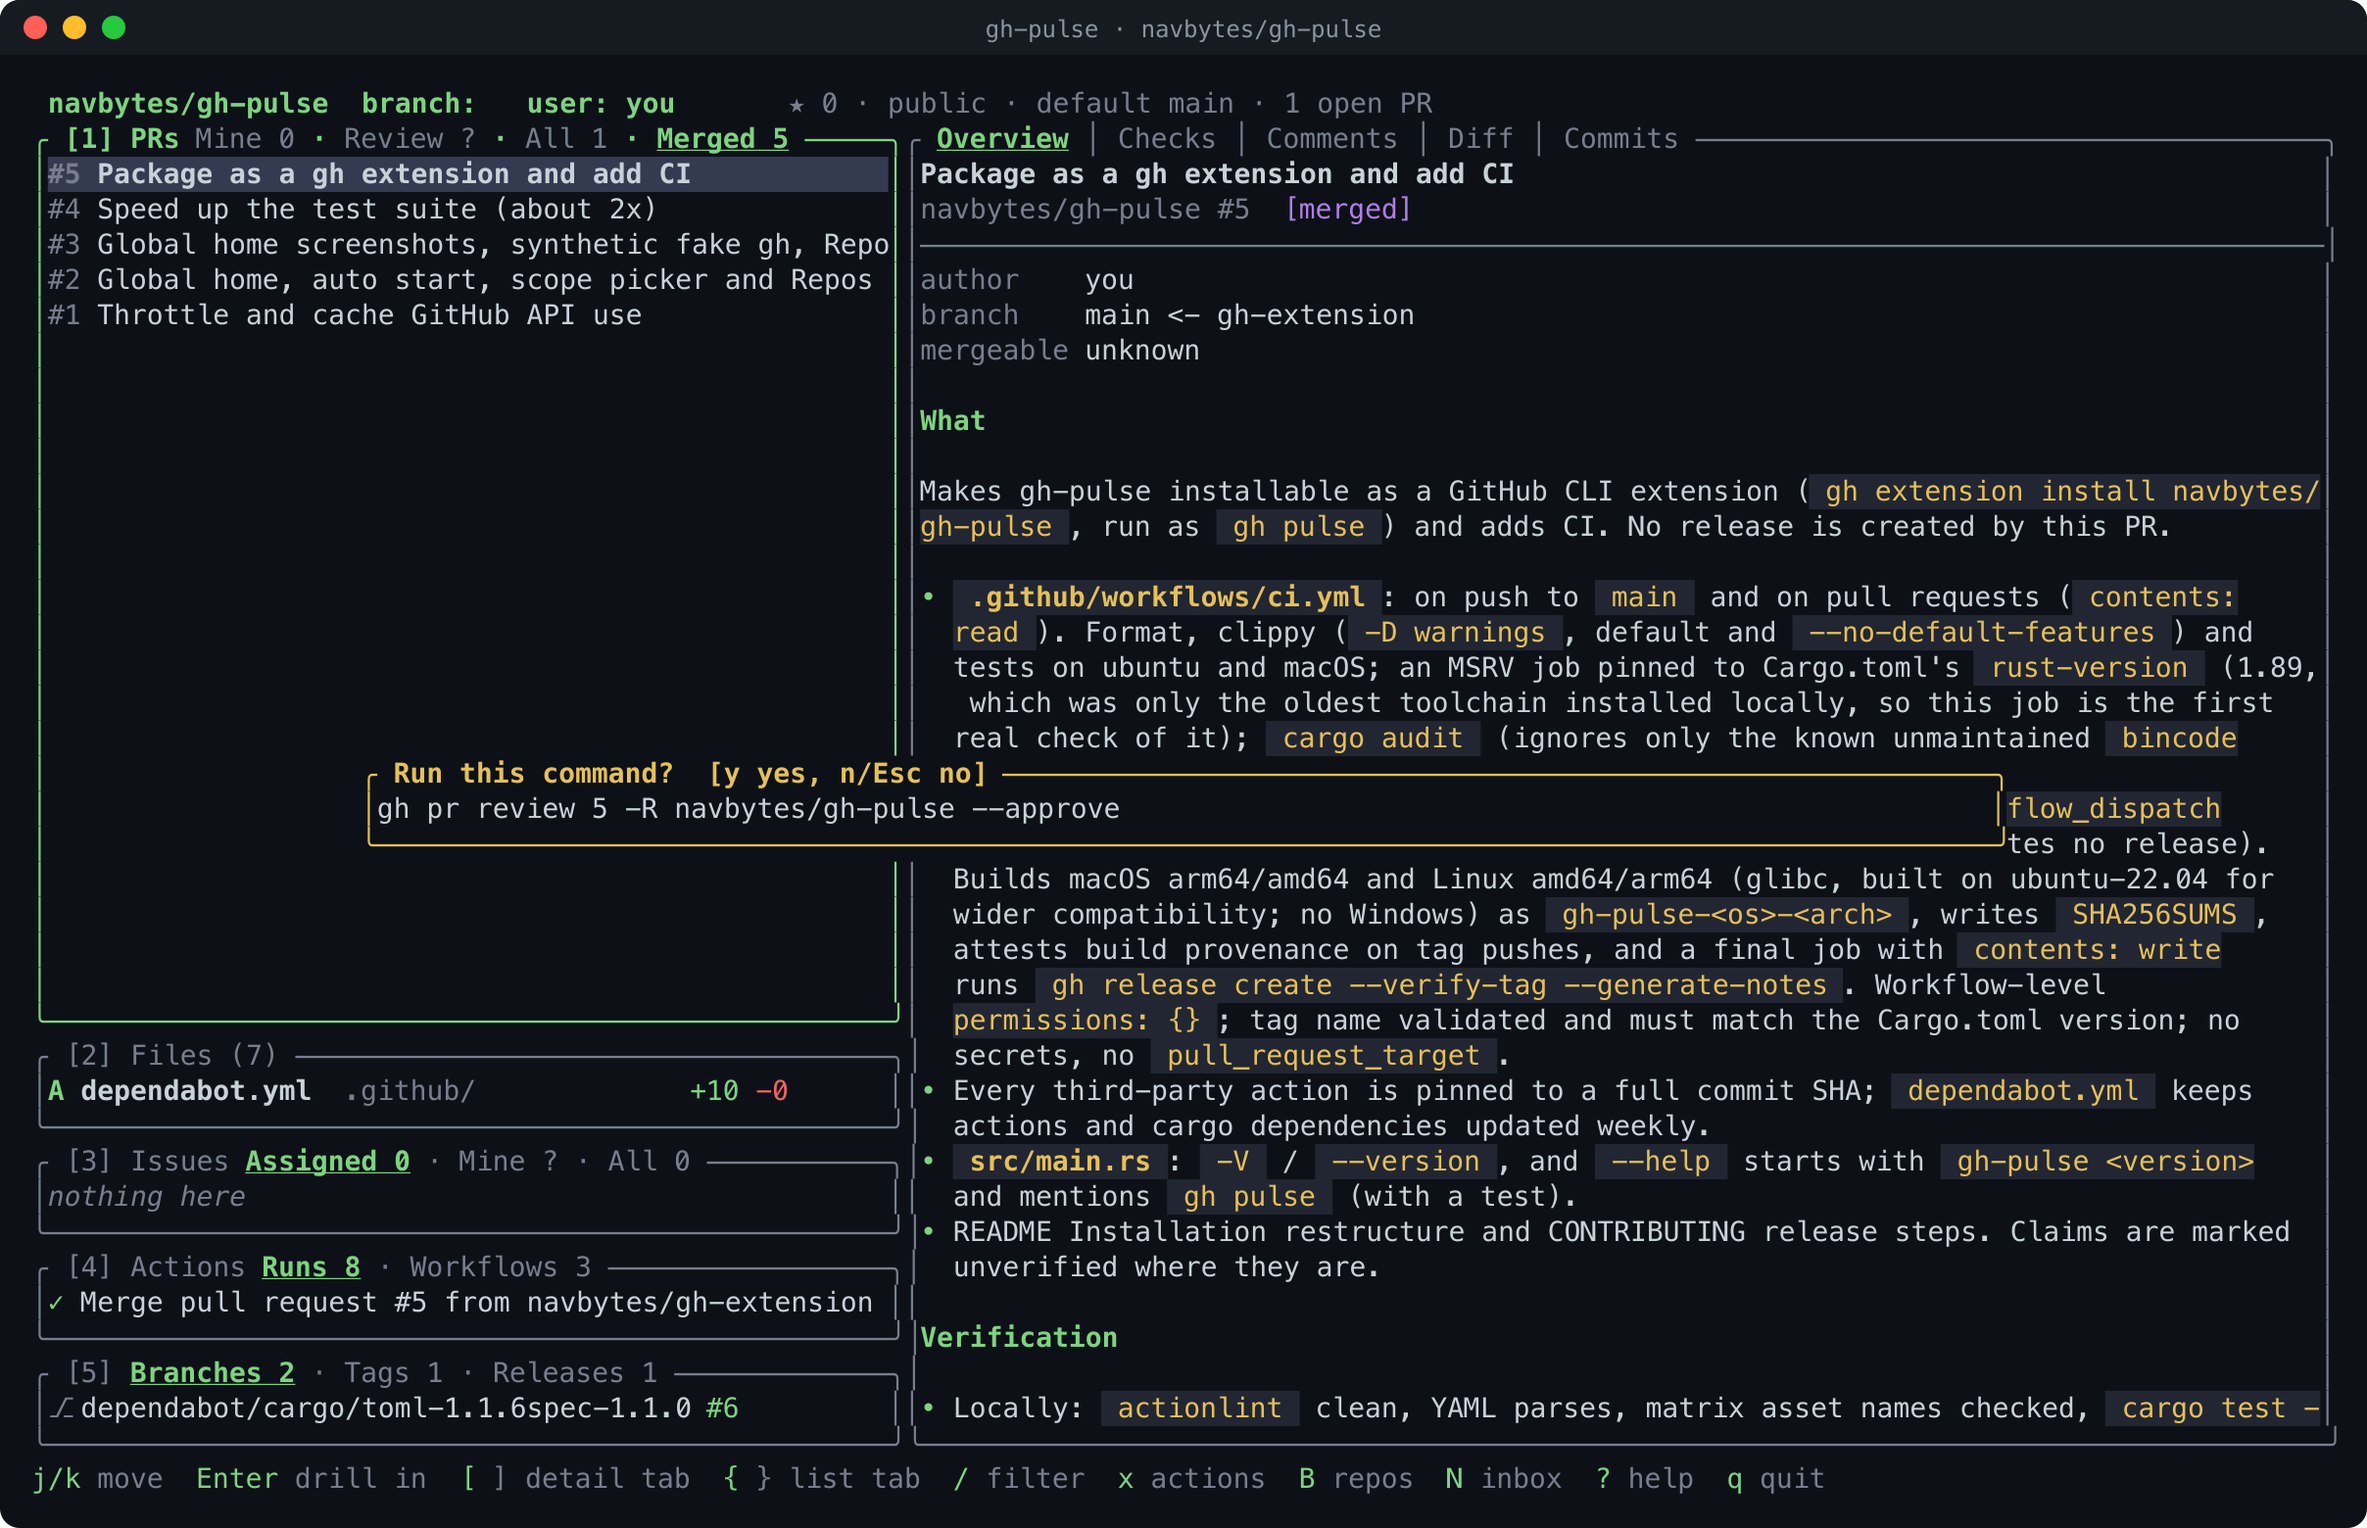
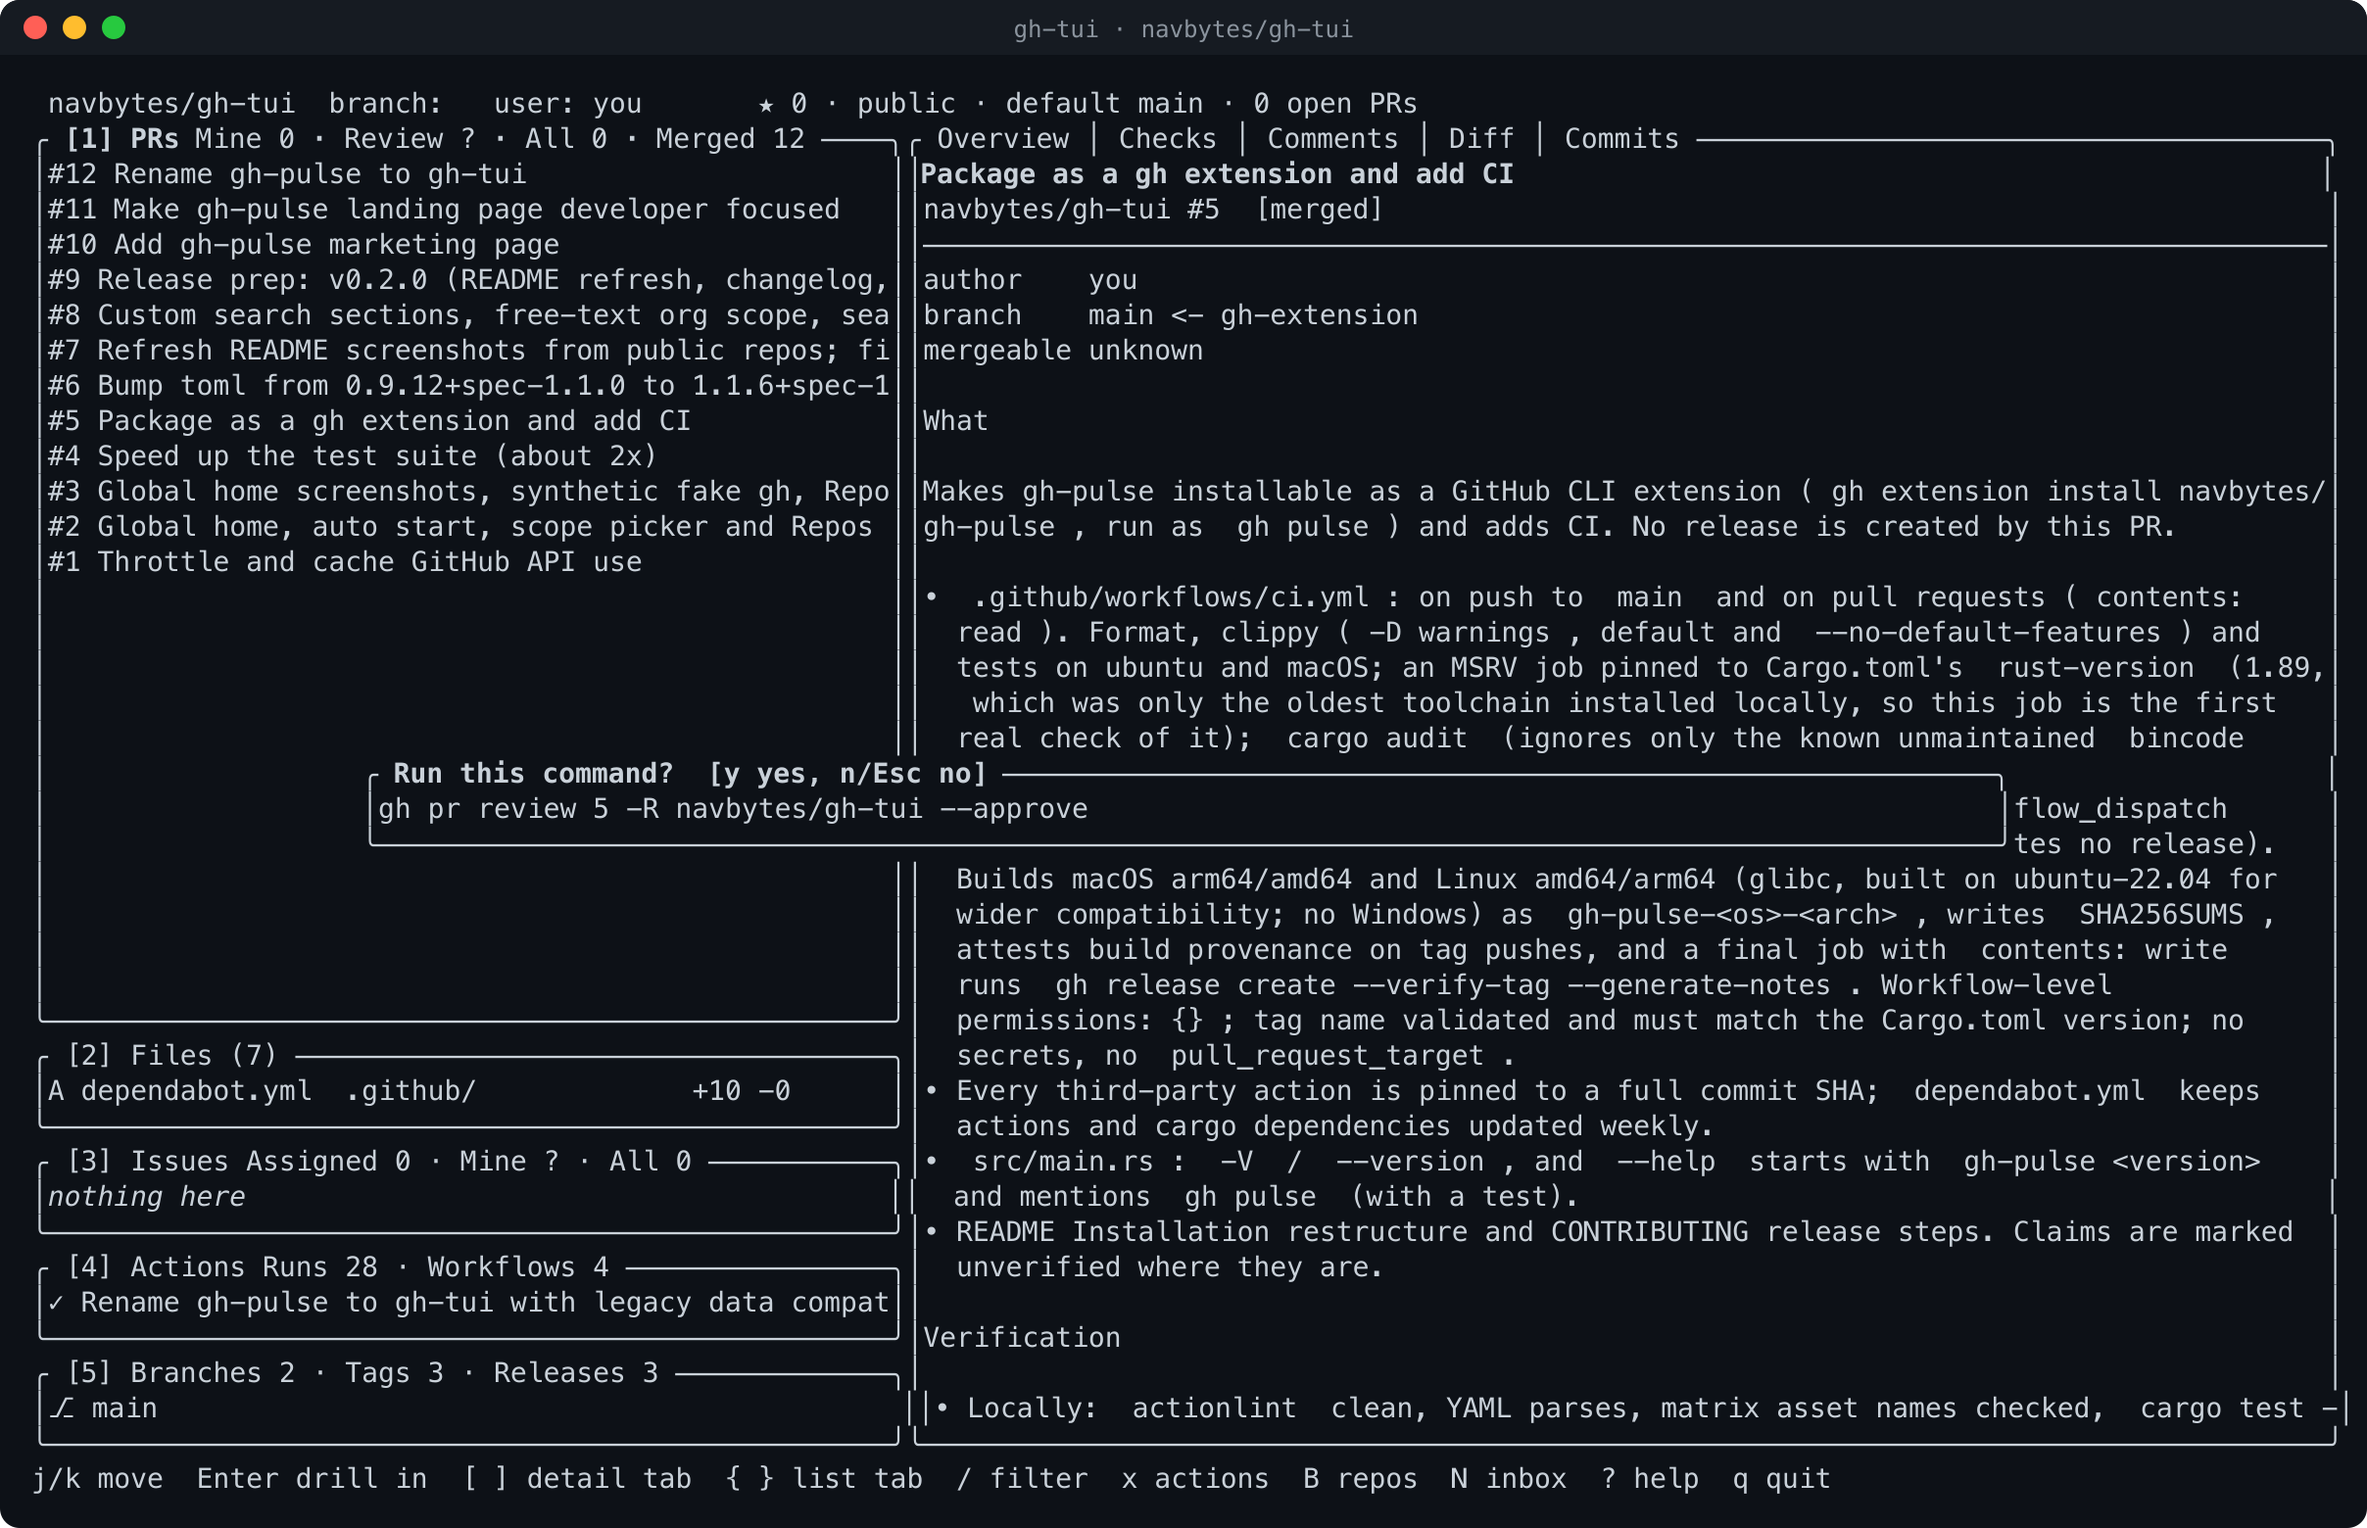
Refresh gh-tui screenshots and finish legacy-name audit

diff --git a/docs/index.html b/docs/index.html
@@ -69,7 +69,7 @@
       <div class="product-grid">
         <article class="product-card product-card-large"><div class="card-top"><span>01 / REVIEW</span><span class="card-glyph" aria-hidden="true">±</span></div><h3>Stay with the code.</h3><p>Move through PR files, commits, checks, and comments. Switch between split and unified diffs, follow review threads, and mark files viewed.</p><div class="card-visual diff-visual"><img src="img/2-diff-split.png" width="1982" height="1280" loading="lazy" alt="Real gh-tui split diff with highlighted changes"></div><span class="visual-note">REAL PUBLIC-REPO SCREENSHOT</span></article>
         <article class="product-card global-card"><div class="card-top"><span>02 / GLOBAL HOME</span><span class="card-glyph" aria-hidden="true">⌘</span></div><h3>All your repos. One starting point.</h3><p>Launch outside a repo to see review requests, your PRs, issues, and favorites. Browse or narrow the scope without changing directories.</p><div class="mini-rows" aria-label="Illustration of global home sections"><span><b>01</b> Review requested <i>↗</i></span><span><b>02</b> My PRs <i>↗</i></span><span><b>03</b> Issues <i>↗</i></span><span><b>04</b> Repos <i>↗</i></span></div><p class="card-footnote">Global-home screenshots in the <a href="https://github.com/navbytes/gh-tui#screenshots">gallery</a> use synthetic demo data.</p></article>
-        <article class="product-card pulse-card"><div class="card-top"><span>03 / THE PULSE</span><span class="card-glyph" aria-hidden="true">↗</span></div><h3>Follow what happens next.</h3><p>See workflow runs, drill into failed checks, triage issues, browse releases, and read notifications across repos.</p><div class="status-stack" aria-label="Illustrative statuses"><span><i class="status-ok" aria-hidden="true"></i> Pull requests <b>REVIEW</b></span><span><i class="status-warn" aria-hidden="true"></i> Workflow runs <b>CHECK</b></span><span><i class="status-ok" aria-hidden="true"></i> Releases <b>BROWSE</b></span></div></article>
+        <article class="product-card activity-card"><div class="card-top"><span>03 / ACTIVITY</span><span class="card-glyph" aria-hidden="true">↗</span></div><h3>Follow what happens next.</h3><p>See workflow runs, drill into failed checks, triage issues, browse releases, and read notifications across repos.</p><div class="status-stack" aria-label="Illustrative statuses"><span><i class="status-ok" aria-hidden="true"></i> Pull requests <b>REVIEW</b></span><span><i class="status-warn" aria-hidden="true"></i> Workflow runs <b>CHECK</b></span><span><i class="status-ok" aria-hidden="true"></i> Releases <b>BROWSE</b></span></div></article>
       </div>
     </section>
 

diff --git a/docs/site.css b/docs/site.css
@@ -116,7 +116,7 @@ h2 { margin-bottom: 22px; font-size: clamp(43px, 5.2vw, 72px); font-weight: 730;
 .mini-rows i { margin-left: auto; color: var(--lime); font-style: normal; }
 .product-card .card-footnote { margin: 14px 0 0; color: #91a39d; font-size: 11px; }
 .card-footnote a { color: var(--lime); text-decoration: underline; text-underline-offset: 3px; }
-.pulse-card { background: radial-gradient(circle at 85% 10%, #263426, transparent 55%), #17211c; }
+.activity-card { background: radial-gradient(circle at 85% 10%, #263426, transparent 55%), #17211c; }
 .status-stack { display: grid; gap: 9px; margin-top: 23px; }
 .status-stack span { display: flex; align-items: center; gap: 12px; padding: 10px 12px; border: 1px solid #3d5344; border-radius: 6px; background: #101c17; color: #dfeddf; font: 11px ui-monospace, monospace; }
 .status-stack i { width: 7px; height: 7px; border-radius: 50%; }

diff --git a/scripts/screenshots.py b/scripts/screenshots.py
@@ -192,7 +192,7 @@ def set_layout(t, want):  # cycle `t` until the diff header shows the wanted lay
 
 
 def s_main(t):
-    pr(t, [5])
+    pr(t, [8])
 def s_diff_split(t):
     pr(t, [4]); ctx(t, 0); t.send('f', .8); set_layout(t, 'auto:split')
 def s_diff_prose(t):
@@ -215,6 +215,10 @@ def s_help(t):
     pr(t, [5]); t.send('?', 1)
 def s_compact(t):
     pr(t, [])  # the narrow layout moves the detail pane, so the row search in pr() would never match
+    for _ in range(120):
+        if f'{GP} #8' in t.text(): break
+        t.send('j', .25)
+    t.pump(3)
 
 
 GP, CLI = os.environ.get('GH_TUI_SHOT_REPO', 'navbytes/gh-tui'), 'cli/cli'

diff --git a/src/cache.rs b/src/cache.rs
@@ -321,7 +321,7 @@ mod tests {
 
     #[cfg(unix)]
     #[test]
-    fn clear_cache_removes_everything_gh_pulse_cached() {
+    fn clear_cache_removes_everything_gh_tui_cached() {
         let shim = crate::testshim::Shim::new();
         let d = dir().unwrap();
         assert!(shim.dir.join("cache") == d);

diff --git a/docs/rename-plan.md b/docs/rename-plan.md
@@ -1,6 +1,6 @@
 # gh-pulse to gh-tui rename plan
 
-This plan tracks the v0.3.0 rename. It is not a release announcement. Do not publish a tag or move the GitHub repository until the gates below are complete.
+This plan records the v0.3.0 rename, including the release gates and remaining documentation work.
 
 ## Scope and phases
 
@@ -11,7 +11,14 @@ This plan tracks the v0.3.0 rename. It is not a release announcement. Do not pub
 
 ## Compatibility limits
 
-The old `gh pulse` command is provided by an installed `gh-pulse` extension. GitHub CLI selects release assets by platform suffix, so duplicate `gh-pulse-*` assets are unnecessary. Whether `gh extension upgrade pulse` follows the repository redirect is still unverified. Confirm it in an isolated GitHub CLI home with a real published release before promising it to users. The new install command is `gh extension install navbytes/gh-tui`; if the old extension remains installed, remove it only after its configuration and state have been checked. Do not change the user's installed extensions during automated tests.
+The old `gh pulse` command is provided by an installed `gh-pulse` extension. GitHub CLI selects release assets by platform suffix, so duplicate `gh-pulse-*` assets are unnecessary. With GitHub CLI 2.100.0 in an isolated macOS arm64 CLI home, `gh extension upgrade pulse` followed the repository redirect from v0.2.0 to v0.3.0 successfully; the command stayed `gh pulse` and reported gh-tui 0.3.0. A fresh `gh extension install navbytes/gh-tui` provided `gh tui` alongside it. Do not assume the upgrade is verified on other platforms. Remove the old extension only after checking its configuration and state. Do not change the user's installed extensions during automated tests.
+
+## Execution status (2026-10-03)
+
+- Repository moved to `navbytes/gh-tui`; the v0.3.0 release is live. CI, all four platform builds, checksums, provenance, and a downloaded macOS arm64 binary passed. Native attestation verification passed.
+- Isolated old-extension upgrade and new-extension install both passed on macOS arm64 without changing the user's installed extensions.
+- All 19 screenshots were regenerated with the new binary: 12 from public repositories and 7 from synthetic fake-gh data. The privacy blocklist passed, and the full public set was visually reviewed. The screenshot update awaits a follow-up commit or PR.
+- The `/gh-tui/` Pages URL is live and passed browser checks at 320, 390, and 1440 px for branding, images, and overflow. Deploy the final activity-label and screenshot update; the old `/gh-pulse/` Pages path will not redirect.
 
 ## Release and publishing gates
 

diff --git a/README.md b/README.md
@@ -140,8 +140,9 @@ This downloads a precompiled binary from the latest GitHub release.
 
 The new extension can coexist with an existing `gh pulse` installation. Install it with
 `gh extension install navbytes/gh-tui`, then check `gh tui --version` before removing the old extension with
-`gh extension remove pulse` if you no longer need it. Whether `gh extension upgrade pulse` follows the repository
-rename is still to be verified against a published release. If a new XDG directory does not exist, gh-tui keeps
+`gh extension remove pulse` if you no longer need it. With GitHub CLI 2.100.0 on macOS arm64, `gh extension upgrade pulse` was verified
+against v0.3.0 through the repository redirect; it updates the old extension but its command remains `gh pulse`.
+Install `gh-tui` separately for `gh tui`. If a new XDG directory does not exist, gh-tui keeps
 using its existing gh-pulse config, state, or cache directory for reads and writes; it does not move files. A
 previously installed standalone `gh-pulse` binary is not removed automatically.
 

diff --git a/CHANGELOG.md b/CHANGELOG.md
@@ -3,7 +3,7 @@
 All notable changes to this project are documented here. The format follows
 [Keep a Changelog](https://keepachangelog.com/en/1.1.0/).
 
-## [0.3.0] - Unreleased
+## [0.3.0]
 
 ### Changed
 - Renamed the project and GitHub CLI extension from gh-pulse (`gh pulse`) to gh-tui (`gh tui`).
@@ -12,7 +12,7 @@ All notable changes to this project are documented here. The format follows
 
 ### Compatibility
 - Existing gh-pulse XDG directories continue to be used for reads and writes when the new directories are absent. Files are not moved or deleted automatically.
-- Whether `gh extension upgrade pulse` follows the repository redirect must be verified with the published release.
+- `gh extension upgrade pulse` was verified with GitHub CLI 2.100.0 on macOS arm64 against the published v0.3.0 release. It keeps the old `gh pulse` command; install the new extension for `gh tui`.
 
 ## [0.2.0]
 
